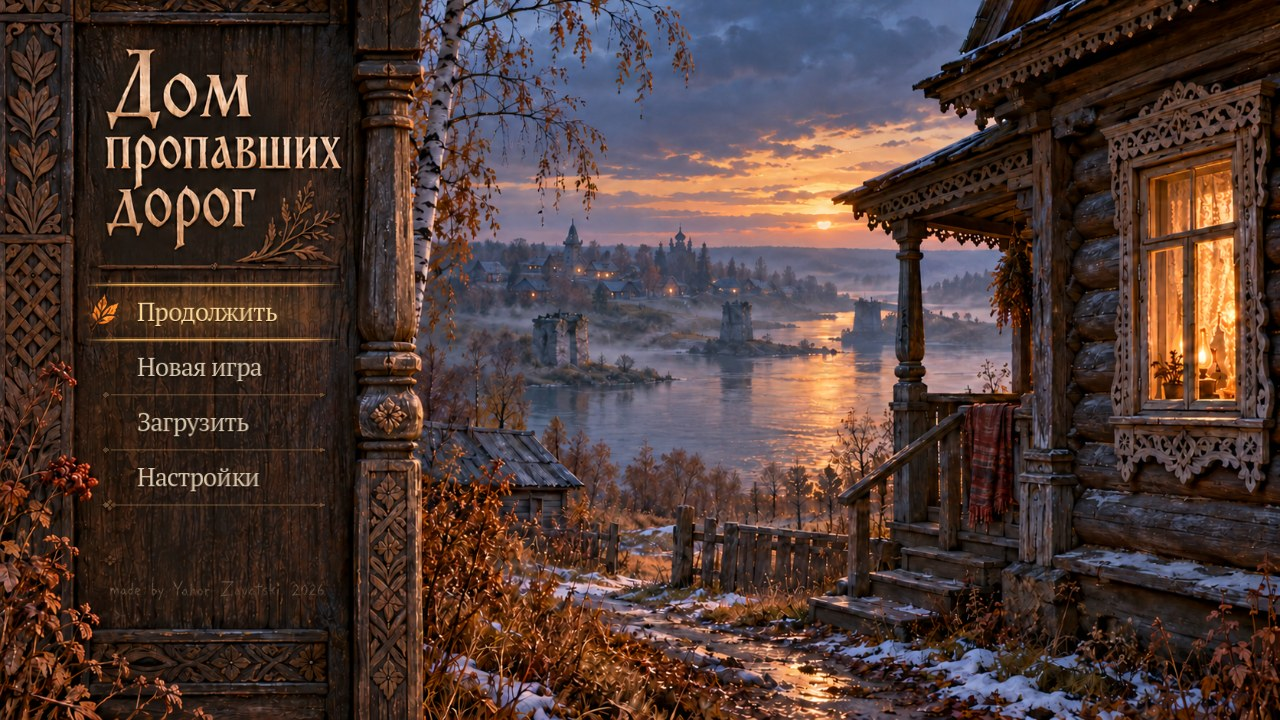
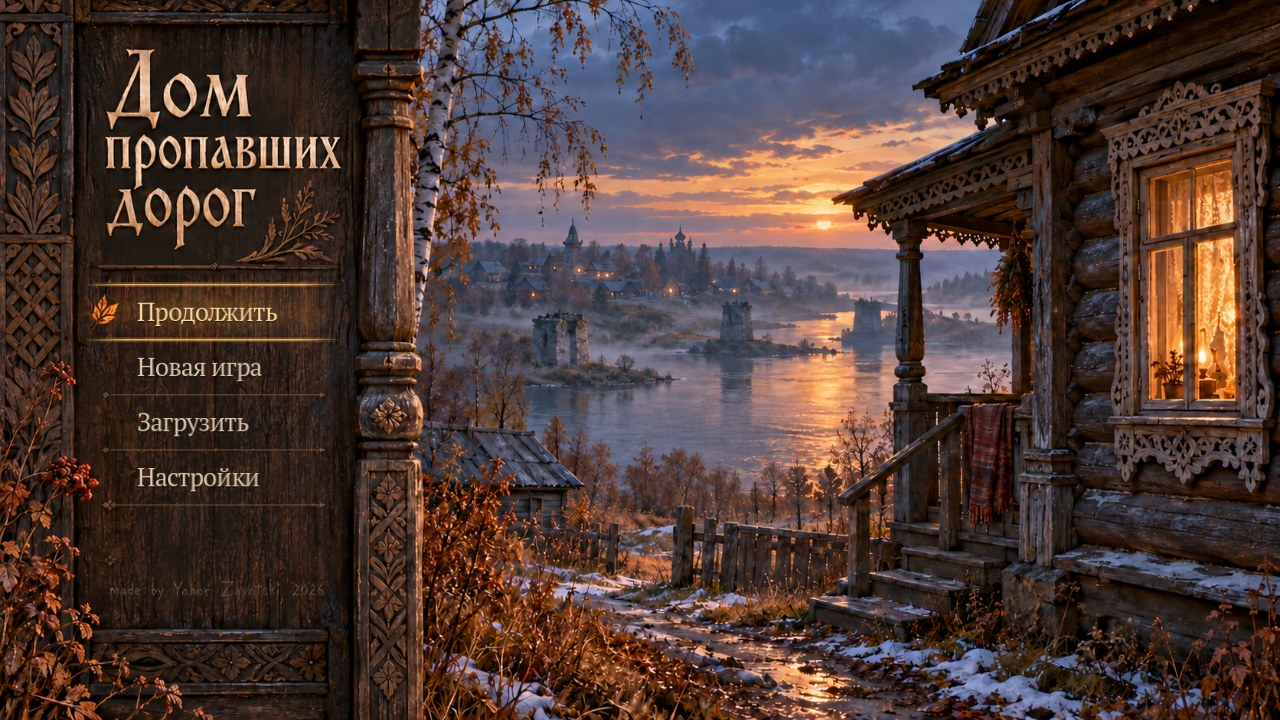
Меню: приёмка (ACCEPTANCE_G — раздел «Главное меню и пауза», Т1–Т10), CURRENT_STATE, кадры с пересобранной сборки; music_web — дверь дома ключом, реплики до «Меню» [skip ci]
Claude-Session: https://claude.ai/code/session_01Qvdjz1zmfr41cRSvLxvjeK

diff --git a/Docs/ACCEPTANCE_G.md b/Docs/ACCEPTANCE_G.md
@@ -85,8 +85,8 @@
 
 | № | Что сделать | Как должно работать | Ок? |
 | --- | --- | --- | --- |
-| G3 | Меню (кнопка вверху) → флажок под ползунками | Называется «Облегчить мини-игры». Включён — во всех мини-играх на точность (скоба, затвор, крюк в зеркале конторы, винт верстака, бревно у ворота) бегунок медленнее, а зелёная зона заметно шире. Рядом с каждой полосой тот же флажок «Облегчить». Прежняя настройка «медленнее», если была включена, остаётся включённой | |
-| G4, G5 | Поиграть, перейти в другую комнату, открыть меню | Вверху списка — строка «Автосохранение» со словами, где и когда: например «День второй · Мастерская · вечер» (без «H2» и без даты-времени). Обновляется при каждой смене комнаты, после сцен (и при входе в новый день) и раз в 5 минут игры — но не посреди реплики, затемнения или открытого крупного плана (тогда сразу после). Ручные слоты 1–3 оно не трогает. Строки слотов и «День второй / третий / четвёртый» тоже пишут место и время словами. «Загрузить» у автосохранения — та же комната, ничего не повторяется (реплики первого входа, сцены) | |
+| G3 | «Меню» (кнопка вверху) или Esc → пауза → «Настройки» → флажок под ползунками | Называется «Облегчить мини-игры». Включён — во всех мини-играх на точность (скоба, затвор, крюк в зеркале конторы, винт верстака, бревно у ворота) бегунок медленнее, а зелёная зона заметно шире. Рядом с каждой полосой тот же флажок «Облегчить». Прежняя настройка «медленнее», если была включена, остаётся включённой | |
+| G4, G5 | Поиграть, перейти в другую комнату, открыть «Меню» → «Загрузить» | Вверху списка — строка «Автосохранение» со словами, где и когда: например «День второй · Мастерская · вечер» (без «H2» и без даты-времени). Обновляется при каждой смене комнаты, после сцен (и при входе в новый день) и раз в 5 минут игры — но не посреди реплики, затемнения или открытого крупного плана (тогда сразу после). Ручные слоты 1–3 оно не трогает. Строки слотов и «День второй / третий / четвёртый» тоже пишут место и время словами. «Загрузить» у автосохранения — та же комната, ничего не повторяется (реплики первого входа, сцены) | |
 | G6 | Ходить по комнатам: жилая → мастерская → галерея (один дом), улица → переулок → почта; потом улица → дом | В одном доме / на одной улице музыка звучит дальше без провала и без начала заново. Дом ↔ улица — мягкий переход одной мелодии в другую | |
 | G8 | Новая игра → почта → дом; в жилой комнате щёлкнуть по ставням | Агата тянется к ставне, ставни открываются, «Ставня подалась…» — без отдельного крупного плана и полосы. Второй щелчок — только осмотр | |
 | G19 | `?start=wedges` → зеркало конторы из сумки на стойку «ЗМ» в мастерской | В крупном плане стойки — четыре нарисованных клина (два внизу, два по бокам), тот, что в работе, подсвечен; справа — полоса «точного удара». Каждый клин — три попадания подряд: вставлен → наполовину → почти → забит. Промах — клин выскакивает (Агата: «Выскочил…»), уже забитые держатся; закрыть и открыть снова — забитые на месте. Все четыре — стекло показывает контору. В комнате после этого клинья забиты и на рисунке | |
@@ -149,3 +149,47 @@
 ## Как ответить
 
 Одной строкой на номер: «G1 ок» или «G1: что не так — где и после какого клика».
+
+# Раздел «Главное меню и пауза» (агент меню)
+
+Что проверяем: запрос Директора 23.10 — главное меню по арту ChatGPT (пункты рисует игра, подпись процарапана слоем,
+анимация воды, ветвей, трав и света в окне) и меню паузы-рушник поверх слегка размытой игры, по Esc.
+
+## Где проверять
+
+- **Браузер:** https://russiansky777.github.io/dom-propavshih-dorog/ (после обновления сборки Ctrl+F5) — титул сразу при открытии.
+- Ссылки со `?start=…` (чеклисты M1–M3) открывают игру сразу, без титула, как раньше. `?title=1` — титул принудительно.
+- В старых чеклистах «Меню → слот / ползунок / „Новая игра“» теперь так: «Меню» (или Esc) → пауза → «Сохранить», «Загрузить» или «Настройки»; «Новая игра» — на титуле (пауза → «В главное меню»).
+- Кадры из веб-сборки реальными кликами: `Docs/evidence/G/menu_title.jpg`, `menu_title_hover.jpg`, `menu_pause.jpg`,
+  `menu_title_continue.jpg`; прогон `node tools/menu_web.mjs` — 17 проверок из 17 (титул без сохранений и без «Выхода», вода движется — панель стоит, наведение, «Новая игра», Esc — пауза и Агата стоит, «Сохранить» в слот 1, «В главное меню» → «Продолжить» — Агата на том же месте, 0 ошибок консоли).
+
+## Критично
+
+| № | Что сделать | Как должно работать | Ок? |
+| --- | --- | --- | --- |
+| Т1 | Открыть сайт (без `?start`) | Титул: резная панель, «Дом пропавших дорог», пункты «Новая игра», «Загрузить», «Настройки» (в браузере нет «Выхода»; «Продолжить» — только если есть сохранение). Внизу панели — тонкая процарапанная подпись «made by Yahor Zavatski, 2026» | |
+| Т2 | Смотреть на титул 10–15 секунд, не двигая мышь | Вода реки тихо рябит и поблёскивает на солнечной дорожке; листья берёзы и ближние травы слегка покачиваются вразнобой; окно дома мягко «дышит» тёплым светом. Панель, надписи, дом, опоры моста не двигаются | |
+| Т3 | Наводить мышь на пункты | Лист и две золотые линии с тёплым свечением плавно переезжают к пункту, пункт светлеет | |
+| Т4 | «Новая игра» | Игра с почты, как раньше; музыка — тема дороги (в браузере начинается с первого щелчка) | |
+| Т5 | В игре нажать Esc (или кнопку «Меню» вверху) | Поверх кадра выплывает рушник «Пауза», игра за ним чуть размыта и притушена; Агата и жители стоят, реплика держится (голос замолкает и продолжается после), мини-игры стоят. Пункты: Продолжить, Сохранить, Загрузить / Настройки, В главное меню (в браузере без «Выхода из игры»); под пунктами «Esc — вернуться». Наведение — красная вышитая рамка вокруг пункта | |
+| Т6 | Esc ещё раз | Пауза закрывается, игра идёт дальше с того же места | |
+| Т7 | Открыть крупный план (предмет из сумки, дверь, механизм) и нажать Esc | Сначала закрывается крупный план; пауза открывается только следующим Esc. То же с журналом и планом Заречья | |
+| Т8 | Пауза → «Сохранить» → слот 1 → «Назад» → «Продолжить» | Слот показывает «День… · место · время»; «Назад» возвращает на рушник; «Продолжить» — в игру | |
+| Т9 | Пауза → «В главное меню» → «Продолжить» | Титул, первым пунктом «Продолжить»; он загружает самое свежее сохранение (автосохранение при выходе в меню тоже) — Агата там, где её оставили | |
+| Т10 | Пауза → «Настройки»; с титула → «Настройки», «Загрузить» | Громкости музыки, звуков, голоса и «Облегчить мини-игры» — те же, что раньше в «Меню»; «Загрузить» — все существующие сохранения | |
+
+## Важно, но не блокирует
+
+- Во время реплики или крупного плана пункты «Сохранить» и «Загрузить» в паузе бледные: сохранение посреди сцены вернуло бы
+  её середину. Щелчок по ним объясняет это строкой вместо «Esc — вернуться».
+- В крупных планах без «Закрыть» (переправа на лодке, ворот бревна) Esc, как и раньше, ничего не делает — пауза там
+  открывается кнопкой «Меню» вверху.
+
+## Что оценивать не нужно
+
+- Сами рисунки панели, подписи и рушника — это арт ChatGPT 23.10 как есть (чистые слои без пунктов).
+- Шрифт пунктов — PT Serif из игры (той же гарнитурой набраны пункты на референсе); на других языках пункты будут те же.
+
+## Как ответить
+
+Одной строкой на номер: «Т5 ок» или «Т5: что не так — где и после какого действия».

diff --git a/Docs/CURRENT_STATE.md b/Docs/CURRENT_STATE.md
@@ -28,6 +28,18 @@
 - Остатки ИИ-ворот: пп. M2 17–20 и M3 15–18, 25 — повторятся сами после публикации исправлений фонаря и ворота; необязательные пункты M3 19–24 (дощечка, конверт, рукав, лента) — проверить по отчёту следующих ворот.
 - Юбки Пелагеи и жены Ильи сзади похожи на брюки (веса скиннинга Meshy) — низкий приоритет.
 
+# Current state — 2026-10-23, вечер (агент меню): главное меню и пауза
+
+- **Сделано (запрос Директора 23.10):** титул при запуске и пауза по Esc на чистом арте ChatGPT (`assets/incoming/main_menu_clean.png`, `main_menu_signature.png`, `pause_rushnik_panel.png`, 279dd5a) → `game/assets/ui/menu/` через `tools/import_menu_art.py` (лист-маркер вырезан из `main_menu_v2.png`, маска анимации по полигонам `data/story/menu.json`). Пункты рисует игра (тексты `ui.title_*`, `ui.pause_*` в `data/story/text/ru_menu.json`), шрифт PT Serif из игры.
+  - Титул (`game/scripts/ui/title_screen.gd`): «Продолжить» — новейшее сохранение (автосохранение тоже; `GameState.latest_save`, поле `saved_unix`), только если оно есть; «Новая игра»; «Загрузить» / «Настройки» — прежняя панель слотов и громкостей в своём режиме; «Выход» — не в вебе. Наведение — лист и золотые линии со свечением едут к пункту. Вода, берёза, ближние травы, окно — один шейдер `title_bg.gdshader` по маске; остальное неподвижно. Музыка — тема `roads` (`menu.json title.music`, `MusicDirector.play_menu_theme`).
+  - Пауза (`pause_menu.gd`): рушник поверх кадра, размытого и притушенного `pause_blur.gdshader` (15 выборок, один проход); две колонки, вышитая рамка наведения кодом, «Esc — вернуться». Дерево на паузе (ходьба, жители, реплики, постановки — их таймеры теперь `create_timer(…, false)`, мини-игры), голос держится (`VoiceDirector.set_paused`). Esc: крупный план/механика закрываются сами, потом панель слотов, журнал, план — и только потом пауза; в неотменяемой механике (переправа, ворот) Esc по-прежнему ничего не делает. «Сохранить»/«Загрузить» бледные во время реплики/крупного плана. «В главное меню» — автосохранение (если можно), сброс сцены, титул.
+  - Панель слотов (`game_ui.gd`): режимы `save` / `load` / `settings` (`open_menu_panel`), свой слой 70 над паузой и титулом; `toggle_menu()` — прежний полный вид (тесты). Кнопка «Меню» → пауза (`pause_requested`).
+- **Автоматика не сломана:** титул пропускается в `-s`-тестах, при `?start=`, `?agata=`, любых `?…probe`, `?test`, `?notitle`, `?title=0` и в автоматическом браузере (`navigator.webdriver` — все Playwright-прогоны и ИИ-плейтест); `?title=1` / `-- --title` — показать. Действие пробы: `window.probeTitle('new_game')` и `probeState.title.items` / `probeState.pause.items` (центры для реальных щелчков). Прогоны через «Меню» переписаны на «Меню → пункт паузы → панель → Назад → Продолжить»: voice_web, voice_web_day2, music_web, mech_web (часть menu), ui_shots, screenshots, ИИ-плейтест (старт с сохранения), g_story_web (Esc только при открытом виде).
+- **Чем доказано:** `tools/run_tests.sh` — код 0 после rebase на b36dff4: 220 проверок Godot (из них test_menus 6, test_batch_g 6, mechanics 14) + валидаторы; новый `game/tests/test_menus.gd` (6: титул при запуске/пропуск тестом, пункты титула, Esc — пауза и игра стоит, порядок Esc, пункты паузы, «В главное меню» → «Продолжить»). Веб-сборка, реальные клики `node tools/menu_web.mjs` — 17/17, кадры `Docs/evidence/G/menu_*.jpg`. Прогоны на той же сборке: mech_web (часть menu) — все проверки, voice_web_day2 — пауза «Настройки», «Сохранить», «В главное меню» → «Новая игра», «Загрузить» — ок (19/20, падает только громкость реплики Агаты M09_1 −66 dBFS — замер звука, не меню), music_web — ползунки через паузу и IndexedDB ок, ИИ-плейтест dry-run — старт с сохранения через «Меню → Загрузить» ок, g_story_web mill 8/8.
+- **Сломаны не меню, а пути партии G (для владельцев прогонов):** music_web — тёмная мастерская H2 до ставни (G7), дверь дома теперь с ключом из сумки (поправил в music_web); voice_web — порядок M01 (первой говорит Тамара); ui_shots — нет кармашка `letter_tamara`; screenshots.mjs — дверь H1 по ключу, ставня/печь, петли двери. Меню в этих прогонах доходит и работает там, где путь до него не ломается раньше.
+- **Ждёт Директора:** раздел «Главное меню и пауза» в `Docs/ACCEPTANCE_G.md` (Т1–Т10).
+- **Дальше / не сделано:** ничего обязательного. Мелочи: пункты титула и паузы не переводятся на другие языки, пока нет второго языка в `data/story/text`; клавиатура на титуле — стрелки и Enter, на паузе — только мышь и Esc.
+
 # Current state — 2026-10-23, вечер (агент сюжета и комнат, партия G)
 
 ## 23.10 — партия G: сюжет, логика и комнаты (`Docs/FEEDBACK_DIRECTOR_2026-10-23b.md`; приёмка — `Docs/ACCEPTANCE_G.md`, раздел «Сюжет и комнаты»)
